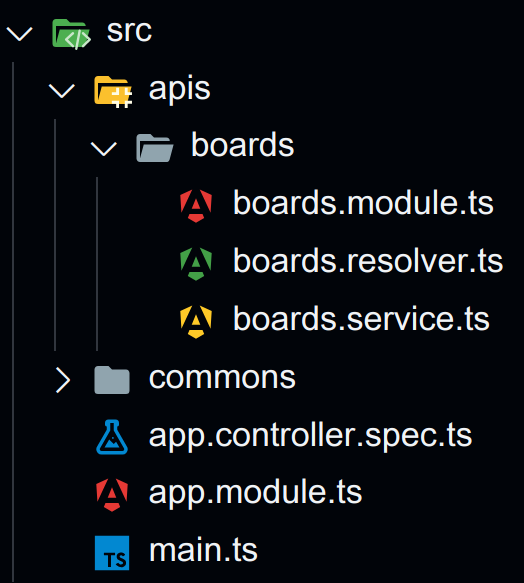
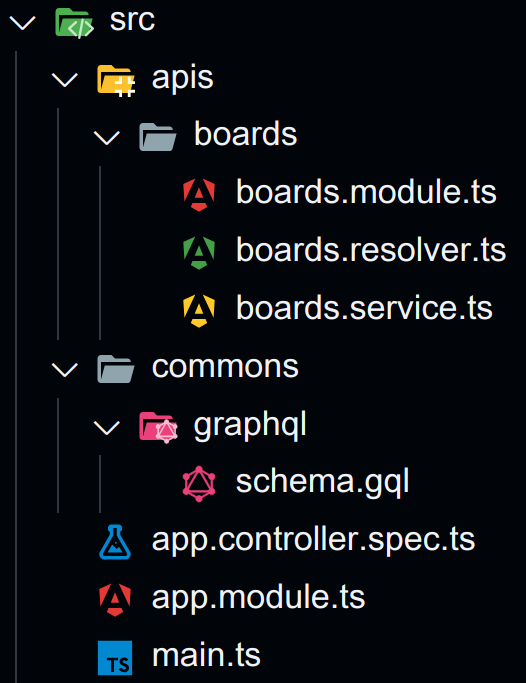
Ubuntu vault backup: 2023-12-28 13:53:52

diff --git a/JavaScript/NestJS/API 파일 구조.md b/JavaScript/NestJS/API 파일 구조.md
@@ -2,3 +2,17 @@
 
 # 폴더 구조
 ![[NestJS GraphQL 폴더 구조.png]]
+- 각 api별로 폴더를 만든 후 module, resolver, service를 세트로 구성
+- 만든 api폴더들을 apis 폴더에 한곳으로 저장
+- commons폴더에는 생성될 gql파일이 있을 공간을 만들어줌
+
+--- 
+# Service
+
+예시코드
+```typescript
+import { Injectable, Scope } from '@nestjs/common';
+
+@Injectable() 
+export class BoardsService { qqq(): string { return 'Hello World!'; } }
+```
